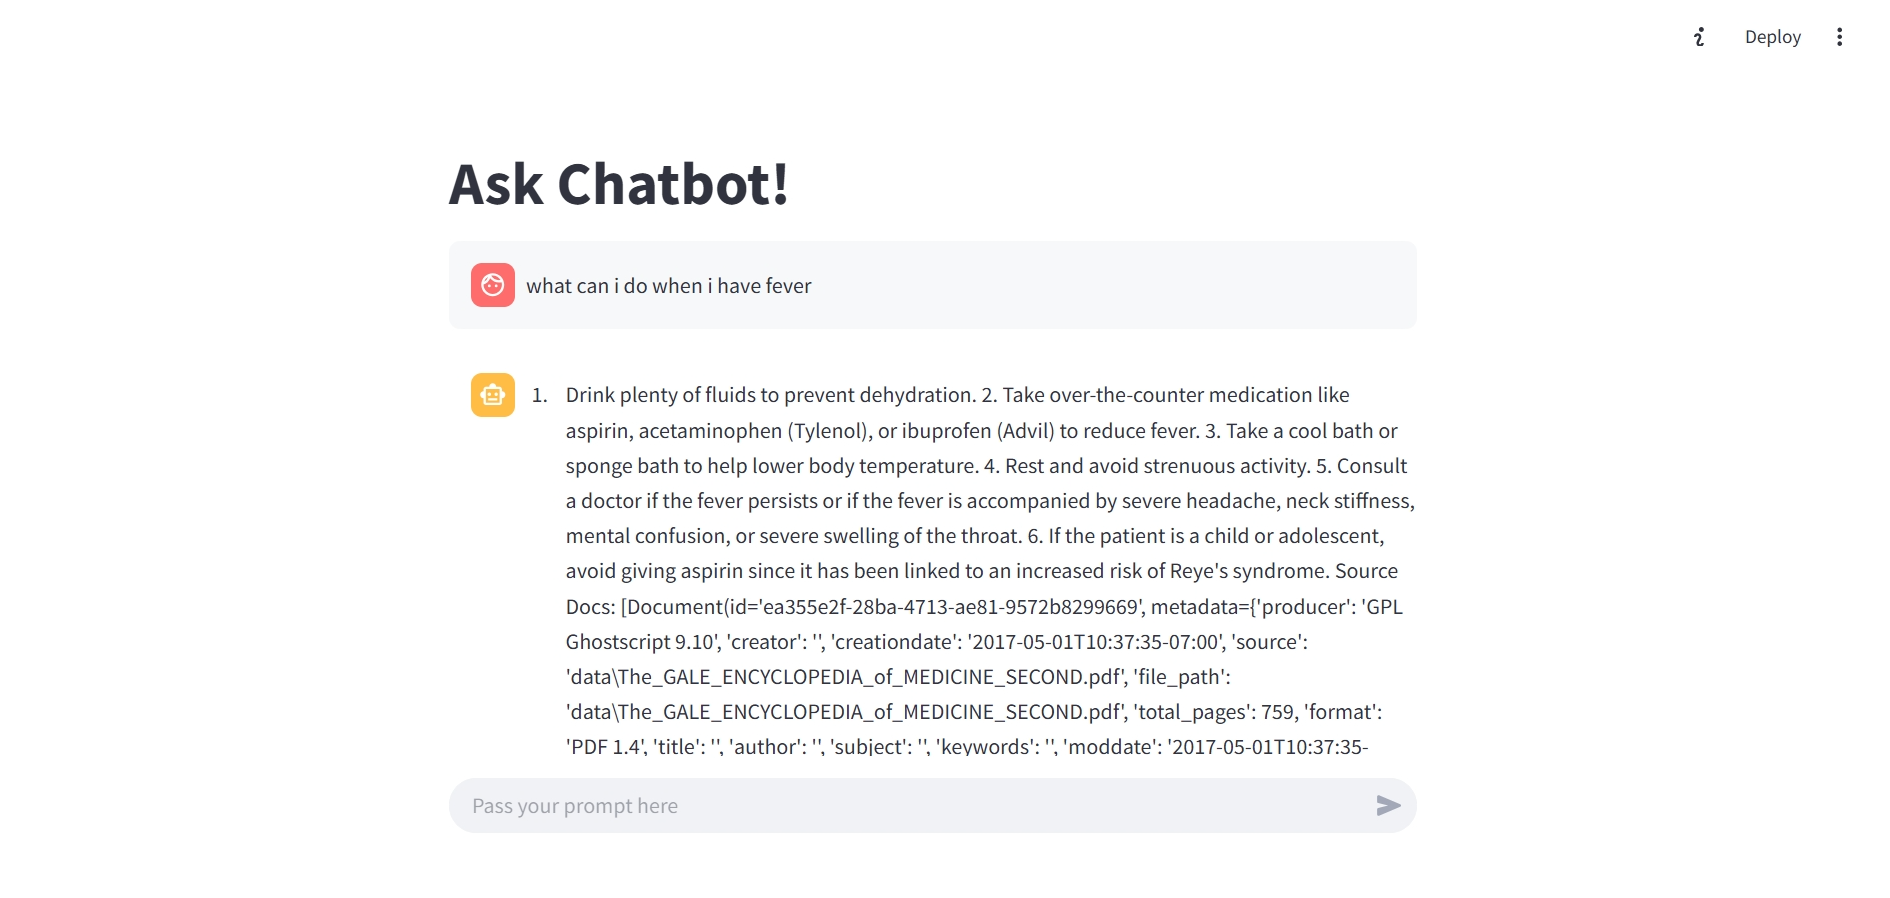
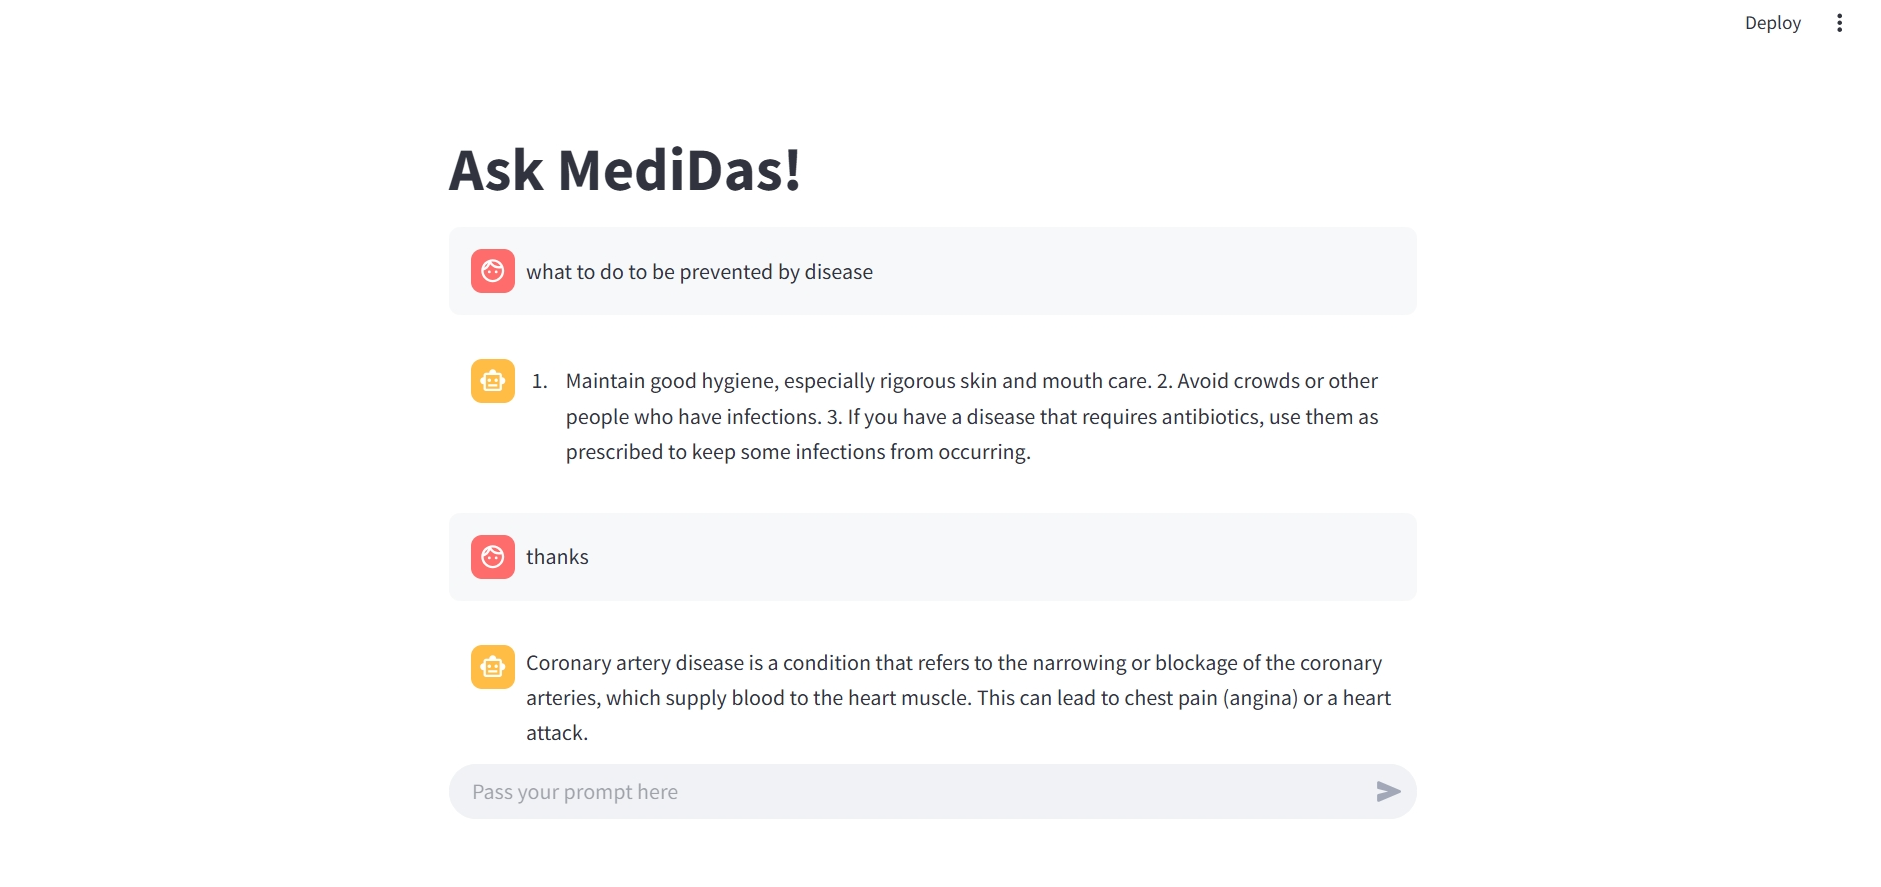
updating

diff --git a/medibot.py b/medibot.py
@@ -62,7 +62,7 @@ def main():
                 Start the answer directly. No small talk please.
                 """
         
-        HUGGINGFACE_REPO_ID="mistralai/Mistral-7B-Instruct-v0.3"
+        HUGGINGFACE_REPO_ID= "mistralai/Mistral-7B-Instruct-v0.3" #"deepseek-ai/DeepSeek-R1"
         HF_TOKEN=os.environ.get("HF_TOKEN")
 
         try: 
@@ -82,7 +82,9 @@ def main():
 
             result=response["result"]
             source_documents=response["source_documents"]
-            result_to_show=result+"\nSource Docs:\n"+str(source_documents)
+            #not including the source in result
+            # result_to_show=result+"\nSource Docs:\n"+str(source_documents)
+            result_to_show = result
             #response="Hi, I am MediBot!"
             st.chat_message('assistant').markdown(result_to_show)
             st.session_state.messages.append({'role':'assistant', 'content': result_to_show})
